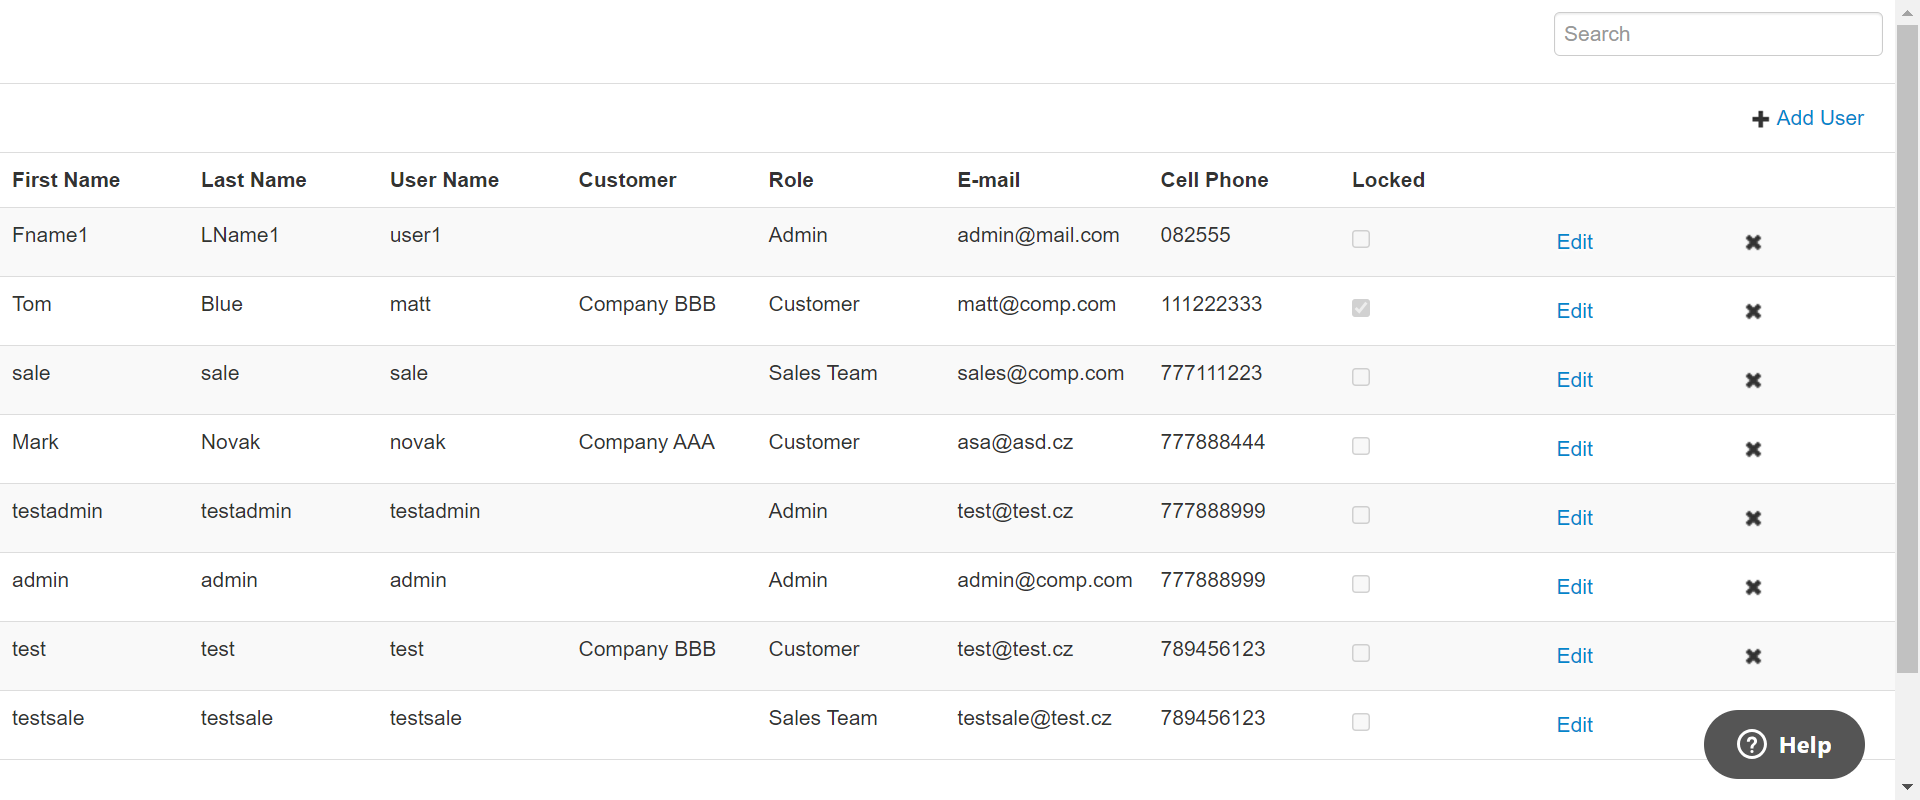
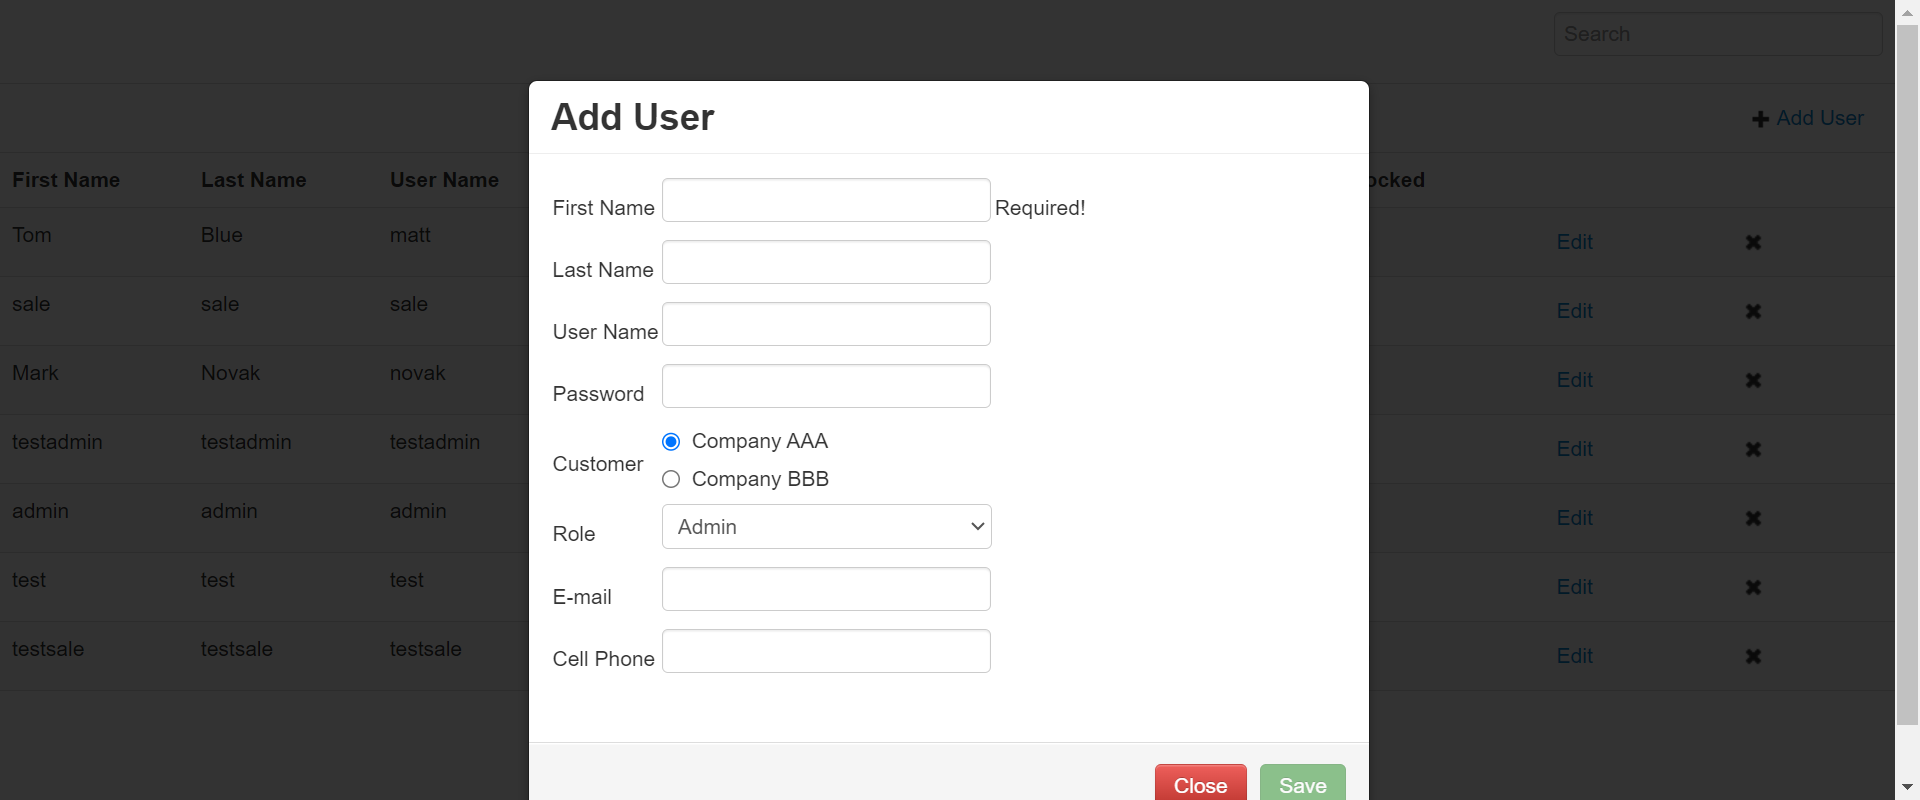
Added TestData file and class

diff --git a/src/test/java/Tests/WebTablesTests.java b/src/test/java/Tests/WebTablesTests.java
@@ -1,60 +1,69 @@
 package Tests;
 
 import Pages.WebTables;
+import Utils.ReadFromExcel;
 import org.testng.annotations.Test;
 
+@Test
 public class WebTablesTests extends Base {
 
-    @Test
-    public void verifyFirstnameIsDisplayedWebTablesPageTests(){
-        WebTables.verifyFirstnameIsDisplayedWebTablesPage();
-        takeScreenshots.takeSnapShot(driver, "Home Screen");
+    public void verifyFirstnameIsDisplayedWebTablesPageTests() {
+
+        webTables.verifyFirstnameIsDisplayedWebTablesPage();
     }
-    @Test(dependsOnMethods = "verifyFirstnameIsDisplayedWebTablesPageTests")
+
+    @Test(dependsOnMethods = {"verifyFirstnameIsDisplayedWebTablesPageTests"})
     public void clickAddUserButtonTests() {
-        WebTables.clickAddUserButton();
-        takeScreenshots.takeSnapShot(driver, "Add User");
+        webTables.clickAddUserButton();
     }
 
-    @Test(dependsOnMethods = "clickAddUserButtonTests")
-    public void enterFistNameTests() {
-        WebTables.enterFirstName();
+    @Test(dependsOnMethods = {"clickAddUserButtonTests"})
+    public void enterFirstNameTests() {
+
+        webTables.enterFirstName(ReadFromExcel.FirstName);
     }
 
-    @Test(dependsOnMethods = "enterFistNameTests")
+    @Test(dependsOnMethods = {"enterFirstNameTests"})
     public void enterLastNameTests() {
-        WebTables.enterLastName();
+
+        webTables.enterLastName(ReadFromExcel.LastName);
+    }
+    @Test(dependsOnMethods = {"enterLastNameTests"})
+    public void enterUserNameTests(){
+        webTables.enterUserName(ReadFromExcel.UserName);
+    }
+    @Test(dependsOnMethods = {"enterUserNameTests"})
+    public void enterPasswordTests(){
+        webTables.enterPassword(ReadFromExcel.Password);
+    }
+    @Test(dependsOnMethods = {"enterPasswordTests"})
+    public void selectCustomerButtonTests(){
+        webTables.selectCustomerButton();
+    }
+    @Test(dependsOnMethods = {"selectCustomerButtonTests"})
+    public void selectRoleButtonTests(){
+        webTables.selectRoleButton(ReadFromExcel.Customer);
+    }
+    @Test(dependsOnMethods = {"selectRoleButtonTests"})
+    public void enterEmailTests(){
+        webTables.enterEmail(ReadFromExcel.Email);
+
+    }
+    @Test(dependsOnMethods = {"enterEmailTests"})
+    public void enterCellPhoneTests(){
+        webTables.enterCellPhone(ReadFromExcel.Cell);
+
+    }
+    @Test(dependsOnMethods = {"enterCellPhoneTests"})
+    public void clickSaveButtonTests(){
+        webTables.clickSaveButton();
+
+    }
+    @Test(dependsOnMethods = {"clickSaveButtonTests"})
+    public void clickCloseButtonTests(){
+        webTables.clickCloseButton();
+
     }
 
-    @Test(dependsOnMethods = "enterLastNameTests")
-    public void enterUserNameTests() {
-            WebTables.enterUserName();
-    }
 
-    @Test(dependsOnMethods = "enterUserNameTests")
-    public void enterPasswordTests() {
-        WebTables.enterPassword();
-    }
-    @Test(dependsOnMethods = "enterPasswordTests")
-    public void selectCustomerButtonTests() {
-        WebTables.selectCustomerButton();
-    }
-    @Test(dependsOnMethods = "enterPasswordTests")
-    public void selectRoleButtonTests() {
-        WebTables.selectRoleButton();
-    }
-
-    @Test(dependsOnMethods = "enterPasswordTests")
-    public void enterEmailTests() {
-        WebTables.enterEmail();
-    }
-    @Test(dependsOnMethods = "enterEmailTests")
-    public void enterCellPhoneTests() {
-        WebTables.enterCellPhone();
-    }
-    @Test(dependsOnMethods = "enterCellPhoneTests")
-    public void clickSaveButtonTests() {
-        WebTables.clickSaveButton();
-        takeScreenshots.takeSnapShot(driver, "Added a User");
-    }
 }

diff --git a/src/test/java/Pages/WebTables.java b/src/test/java/Pages/WebTables.java
@@ -1,4 +1,6 @@
 package Pages;
+
+import com.github.javafaker.Faker;
 import org.openqa.selenium.WebDriver;
 import org.openqa.selenium.WebElement;
 import org.openqa.selenium.support.FindBy;
@@ -6,6 +8,7 @@ import org.openqa.selenium.support.ui.ExpectedConditions;
 import org.openqa.selenium.support.ui.Select;
 import org.openqa.selenium.support.ui.WebDriverWait;
 import org.testng.Assert;
+
 import java.time.Duration;
 
 public class WebTables {
@@ -41,10 +44,6 @@ public class WebTables {
     static WebElement Close_xpath_button;
 
 
-
-
-
-
     public WebTables(WebDriver driver) {
         this.driver = driver;
     }
@@ -59,50 +58,62 @@ public class WebTables {
         AddUser_xpath.click();
     }
 
-    public static void enterFirstName() {
-        new WebDriverWait(driver, Duration.ofSeconds(30)).until(ExpectedConditions.visibilityOf(FirstName_xpath)).sendKeys("Fname1");
+    public static void enterFirstName(String FirstName) {
+        new WebDriverWait(driver, Duration.ofSeconds(30)).until(ExpectedConditions.visibilityOf(FirstName_xpath)).sendKeys(FirstName);
     }
 
-    public static void enterLastName() {
+    public static void enterLastName(String LastName) {
 
-        LastName_xpath.sendKeys("LName1");
+        LastName_xpath.sendKeys(LastName);
     }
+
     public static void enterUserName() {
-        String usernamePrefix = "user";
+//        String usernamePrefix = "user";
         int currentNumber = 1;
-        String username = usernamePrefix + currentNumber++;
+        Faker faker = new Faker();
+        String username = faker.name().username();
+        //String username = usernamePrefix + currentNumber++;
         User_xpath.sendKeys(username);
         currentNumber++;
 
     }
-    public static void enterPassword() {
 
-        Password_xpath.sendKeys("Pass1");
+    public static void enterPassword(String Password) {
+
+        Password_xpath.sendKeys(Password);
     }
 
     public static void selectCustomerButton() {
-        WebDriverWait d = new WebDriverWait(driver,Duration.ofSeconds(2));
+        WebDriverWait d = new WebDriverWait(driver, Duration.ofSeconds(2));
         d.until(ExpectedConditions.visibilityOf(Customer_xpath_Radio));
         Customer_xpath_Radio.click();
 
     }
-    public static void selectRoleButton() {
-        WebDriverWait d = new WebDriverWait(driver,Duration.ofSeconds(2));
+
+    public static void selectRoleButton(String Role) {
+        WebDriverWait d = new WebDriverWait(driver, Duration.ofSeconds(2));
         d.until(ExpectedConditions.visibilityOf(Role_xpath_dropdown));
         Role_xpath_dropdown.click();
         Select dr = new Select(Role_xpath_dropdown);
-        dr.selectByVisibleText("Admin");
-}
-    public static void enterEmail() {
-        WebDriverWait d = new WebDriverWait(driver,Duration.ofSeconds(2));
-        Email_xpath.sendKeys("admin@mail.com");
+        dr.selectByVisibleText(Role);
     }
-    public static void enterCellPhone() {
 
-        Cell_Phone_xpath.sendKeys("082555");
+    public static void enterEmail(String Email) {
+        WebDriverWait d = new WebDriverWait(driver, Duration.ofSeconds(2));
+        Email_xpath.sendKeys(Email);
     }
+
+    public static void enterCellPhone(String Cell) {
+
+        Cell_Phone_xpath.sendKeys(Cell);
+    }
+
     public static void clickSaveButton() {
         Save_xpath_Button.click();
+    }
+
+    public static void clickCloseButton() {
+        Close_xpath_button.click();
     }
 
 

diff --git a/src/test/java/Utils/ReadFromExcel.java b/src/test/java/Utils/ReadFromExcel.java
@@ -1,0 +1,31 @@
+package Utils;
+
+import org.apache.poi.xssf.usermodel.XSSFSheet;
+import org.apache.poi.xssf.usermodel.XSSFWorkbook;
+
+import java.io.FileInputStream;
+import java.io.IOException;
+
+public class ReadFromExcel {
+
+    String TestData_dir="./src/test/java/TestData/TestData.xlsx";
+    FileInputStream fis = new FileInputStream(TestData_dir);
+    XSSFWorkbook workbook = new XSSFWorkbook(fis);
+
+    XSSFSheet CustomerInfo = workbook.getSheet("CustomerInfo");
+
+
+    public String FirstName = CustomerInfo.getRow(1).getCell(0).getStringCellValue();
+    public String LastName = CustomerInfo.getRow(1).getCell(1).getStringCellValue();
+
+    public String UserName = CustomerInfo.getRow(1).getCell(2).getStringCellValue();
+    public String Password = CustomerInfo.getRow(1).getCell(3).getStringCellValue();
+    public String Customer = CustomerInfo.getRow(1).getCell(4).getStringCellValue();
+    public String Role = CustomerInfo.getRow(1).getCell(5).getStringCellValue();
+    public String Email = CustomerInfo.getRow(1).getCell(6).getStringCellValue();
+    public String Cell = CustomerInfo.getRow(1).getCell(7).getStringCellValue();
+
+
+    public ReadFromExcel() throws IOException {
+    }
+}

diff --git a/src/test/java/Tests/Base.java b/src/test/java/Tests/Base.java
@@ -1,6 +1,7 @@
 package Tests;
 import Pages.WebTables;
 import Utils.BrowserFactory;
+import Utils.ReadFromExcel;
 import Utils.TakeScreenshots;
 import org.openqa.selenium.WebDriver;
 import org.openqa.selenium.support.PageFactory;
@@ -10,7 +11,7 @@ public class Base {
 
     BrowserFactory browserFactory = new BrowserFactory();
     final WebDriver driver = browserFactory.startBrowser("Chrome", "http://www.way2automation.com/angularjs-protractor/webtables//");
-    WebTables webtables = PageFactory.initElements(driver,WebTables.class);
+    WebTables webTables = PageFactory.initElements(driver,WebTables.class);
     TakeScreenshots takeScreenshots = new TakeScreenshots();
 
 
